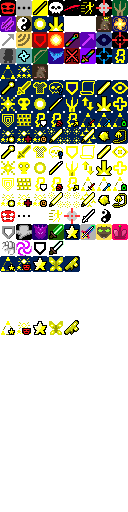
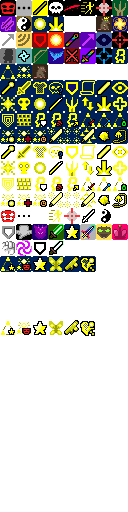
2.3: implemented petitio magica, a spell that gives temporary access to random cleric spell

Changed region(s): [[0.625, 0.625, 0.75, 0.6562], [0.625, 0.5, 0.75, 0.5312]]

diff --git a/core/src/main/java/com/zrp200/rkpd2/actors/hero/spells/PetitioMagica.java b/core/src/main/java/com/zrp200/rkpd2/actors/hero/spells/PetitioMagica.java
@@ -1,0 +1,141 @@
+package com.zrp200.rkpd2.actors.hero.spells;
+
+import com.zrp200.rkpd2.Assets;
+import com.zrp200.rkpd2.Dungeon;
+import com.zrp200.rkpd2.actors.buffs.Buff;
+import com.zrp200.rkpd2.actors.buffs.FlavourBuff;
+import com.zrp200.rkpd2.actors.hero.Hero;
+import com.zrp200.rkpd2.actors.hero.Talent;
+import com.zrp200.rkpd2.effects.Transmuting;
+import com.zrp200.rkpd2.items.artifacts.HolyTome;
+import com.zrp200.rkpd2.messages.Messages;
+import com.zrp200.rkpd2.ui.BuffIndicator;
+import com.zrp200.rkpd2.ui.HeroIcon;
+import com.zrp200.rkpd2.utils.GLog;
+import com.watabou.noosa.audio.Sample;
+import com.watabou.utils.Bundle;
+import com.watabou.utils.Random;
+import com.watabou.utils.Reflection;
+
+import java.util.ArrayList;
+import java.util.Collections;
+import java.util.List;
+
+public class PetitioMagica extends ClericSpell {
+    public static final PetitioMagica INSTANCE = new PetitioMagica();
+
+    @Override
+    public int icon() {
+        return HeroIcon.PETITIO_MAGICA;
+    }
+
+    @Override
+    public void tintIcon(HeroIcon icon) {
+        // todo make icon
+        if (SpellEmpower.isActive()) icon.tint(0, .33f);
+    }
+
+    @Override
+    public Talent talent() {
+        return Talent.PETITIO_MAGICA;
+    }
+
+    @Override
+    public float chargeUse(Hero hero) {
+        return 4;
+    }
+
+    @Override
+    public boolean canCast(Hero hero) {
+        return super.canCast(hero) && hero.shiftedPoints(talent()) > (SpellEmpower.isActive() ? 0 : 1);
+    }
+
+    @Override
+    public void onCast(HolyTome tome, Hero hero) {
+        ArrayList<ClericSpell> currentSpells = new ArrayList<>();
+        for (int i = 1; i <= 3; i++)
+            currentSpells.addAll(ClericSpell.getSpellList(hero, i));
+        ArrayList<ClericSpell> allSpells = ClericSpell.getAllSpells();
+        ClericSpell spell = null;
+        while (spell == null){
+            ClericSpell testSpell = Random.element(allSpells);
+            if (currentSpells.contains(testSpell)) {
+                continue;
+            }
+            if (testSpell.talent() != null && testSpell.talent().maxPoints() > 3)
+                continue;
+            spell = testSpell;
+        }
+        Buff.affect(hero, SpellHolder.class, duration()).spell = spell;
+
+        new Transmuting(new HeroIcon(this), new HeroIcon(spell)).show(hero);
+        Sample.INSTANCE.play(Assets.Sounds.READ);
+        GLog.p(Messages.get(this, "spell", Messages.titleCase(spell.name())));
+
+        hero.spend( 1f );
+        hero.busy();
+        hero.sprite.operate(hero.pos);
+
+        onSpellCast(tome, hero);
+    }
+
+    public static int duration(){
+        int base = 50 * (1 + Dungeon.hero.pointsInTalent(PetitioMagica.INSTANCE.talent()));
+        if (SpellEmpower.isActive()){
+            base *= 1.5f;
+        }
+        return base;
+    }
+
+    @Override
+    protected List<Object> getDescArgs() {
+        return Collections.singletonList(duration());
+    }
+
+    public static boolean containsSpell(Hero cleric, ClericSpell spell){
+        PetitioMagica.SpellHolder spellHolder;
+
+        if ((spellHolder = cleric.buff(PetitioMagica.SpellHolder.class)) != null){
+            return spellHolder.spell.getClass().isInstance(spell);
+        }
+        return false;
+    }
+
+    public static class SpellHolder extends FlavourBuff {
+
+        {
+            type = buffType.POSITIVE;
+        }
+
+        public ClericSpell spell;
+
+        @Override
+        public int icon() {
+            return BuffIndicator.PETITIO_MAGICA;
+        }
+
+        @Override
+        public float iconFadePercent() {
+            return Math.max(0, (duration() - visualcooldown()) / duration());
+        }
+
+        private static final String SPELL = "spell";
+
+        @Override
+        public String desc() {
+            return Messages.get(this, "desc", Messages.titleCase(spell.name()), spell.desc(), dispTurns());
+        }
+
+        @Override
+        public void storeInBundle(Bundle bundle) {
+            super.storeInBundle(bundle);
+            bundle.put(SPELL, spell.getClass().getName());
+        }
+
+        @Override
+        public void restoreFromBundle(Bundle bundle) {
+            super.restoreFromBundle(bundle);
+            spell = (ClericSpell) Reflection.newInstance(Reflection.forName(bundle.getString(SPELL)));
+        }
+    }
+}

diff --git a/core/src/main/java/com/zrp200/rkpd2/actors/hero/Hero.java b/core/src/main/java/com/zrp200/rkpd2/actors/hero/Hero.java
@@ -96,6 +96,7 @@ import com.zrp200.rkpd2.actors.hero.spells.HallowedGround;
 import com.zrp200.rkpd2.actors.hero.spells.HolyWard;
 import com.zrp200.rkpd2.actors.hero.spells.HolyWeapon;
 import com.zrp200.rkpd2.actors.hero.spells.MetaForm;
+import com.zrp200.rkpd2.actors.hero.spells.PetitioMagica;
 import com.zrp200.rkpd2.actors.hero.spells.ShieldOfLight;
 import com.zrp200.rkpd2.actors.hero.spells.Smite;
 import com.zrp200.rkpd2.actors.mobs.AbyssalSpawner;
@@ -584,6 +585,12 @@ public class Hero extends Char {
 				return true;
 			}
 		}
+        if (buff(PetitioMagica.SpellHolder.class) != null){
+            Talent spellTalent = buff(PetitioMagica.SpellHolder.class).spell.talent();
+            if (spellTalent == talent){
+                return true;
+            }
+        }
 		if (Dungeon.isSpecialSeedEnabled(DungeonSeed.SpecialSeed.ALL_TALENTS))
 			return true;
 		for(LinkedHashMap<Talent,Integer> tier : talents) if(tier.containsKey(talent)) return true;
@@ -614,6 +621,12 @@ public class Hero extends Char {
 				return metaTalent.maxPoints;
 			}
 		}
+        if (buff(PetitioMagica.SpellHolder.class) != null){
+            Talent spellTalent = buff(PetitioMagica.SpellHolder.class).spell.talent();
+            if (spellTalent == talent){
+                return spellTalent.maxPoints;
+            }
+        }
 		if (Dungeon.isSpecialSeedEnabled(DungeonSeed.SpecialSeed.ALL_TALENTS))
 			return talent.maxPoints();
 		for (LinkedHashMap<Talent, Integer> tier : talents){

diff --git a/core/src/main/java/com/zrp200/rkpd2/actors/hero/Talent.java b/core/src/main/java/com/zrp200/rkpd2/actors/hero/Talent.java
@@ -265,7 +265,7 @@ public enum Talent {
 	//Paladin T3
 	LAY_ON_HANDS(174, 3, Aspect.DEFENSE), AURA_OF_PROTECTION(175, 3, Aspect.DEFENSE), WALL_OF_LIGHT(176, 3, Aspect.DEFENSE), LIMIT_BREAK(190, 3, Aspect.MULTIFORM), TRIAGE(191, 3, Aspect.UTILITY),
 	//Cenobite T3
-    ARS_RETRACTANDI(imageAt(8, 13), 3), MESSIS_POTENTIAE(imageAt(9, 13), 3, Aspect.MULTIFORM),
+    ARS_RETRACTANDI(imageAt(8, 13), 3), MESSIS_POTENTIAE(imageAt(9, 13), 3, Aspect.MULTIFORM), PETITIO_MAGICA(imageAt(10, 13), 3),
     //Ascended Form T4
 	DIVINE_INTERVENTION(177, 4, Aspect.DEFENSE), JUDGEMENT(178, 4, Aspect.OFFENSE), FLASH(179, 4, Aspect.UTILITY), DIVINE_PROFICIENCY(imageAt(13, 13), 4),
 	//Trinity T4
@@ -1970,7 +1970,7 @@ public enum Talent {
 				Collections.addAll(tierTalents, LAY_ON_HANDS, AURA_OF_PROTECTION, WALL_OF_LIGHT, LIMIT_BREAK, TRIAGE);
 				break;
             case CENOBITE:
-                Collections.addAll(tierTalents, ARS_RETRACTANDI, MESSIS_POTENTIAE);
+                Collections.addAll(tierTalents, ARS_RETRACTANDI, MESSIS_POTENTIAE, PETITIO_MAGICA);
                 break;
             case KING: // this should be *lovely*
 				Collections.addAll(tierTalents, RK_BERSERKER, RK_BATTLEMAGE, RK_ASSASSIN, RK_SNIPER, RK_GLADIATOR, RK_WARLOCK, RK_FREERUNNER, RK_WARDEN); break;

diff --git a/core/src/main/java/com/zrp200/rkpd2/actors/hero/spells/ClericSpell.java b/core/src/main/java/com/zrp200/rkpd2/actors/hero/spells/ClericSpell.java
@@ -223,6 +223,12 @@ public abstract class ClericSpell {
 					HolyIntuition.INSTANCE, ShieldOfLight.INSTANCE, Metaexpression.INSTANCE
 			}) if (spell.isVisible(cleric)) spells.add(spell);
 
+            PetitioMagica.SpellHolder spellHolder;
+
+            if ((spellHolder = cleric.buff(PetitioMagica.SpellHolder.class)) != null){
+                spells.add(spellHolder.spell);
+            }
+
 		} else if (tier == 2) {
 
 			for (ClericSpell spell : new ClericSpell[]{
@@ -249,7 +255,8 @@ public abstract class ClericSpell {
 				WallOfLight.INSTANCE,
 				SpellEmpower.LimitBreak.INSTANCE,
                 ArsRetractandi.INSTANCE,
-                MessisPotentiae.INSTANCE
+                MessisPotentiae.INSTANCE,
+                PetitioMagica.INSTANCE,
 			}){
 				if (spell.isVisible(cleric)) spells.add(spell);
 			}

diff --git a/core/src/main/java/com/zrp200/rkpd2/items/artifacts/HolyTome.java b/core/src/main/java/com/zrp200/rkpd2/items/artifacts/HolyTome.java
@@ -187,7 +187,7 @@ public class HolyTome extends Artifact {
 		Talent.RECALL_INSCRIPTION, Talent.SUNRAY, Talent.DIVINE_SENSE, Talent.BLESS, Talent.RADIANT_GRAPPLER,
 		Talent.CLEANSE, Talent.HOLY_LANCE, Talent.HALLOWED_GROUND, Talent.MNEMONIC_PRAYER, Talent.DIVINE_ADVENT,
 			Talent.LAY_ON_HANDS, Talent.AURA_OF_PROTECTION, Talent.WALL_OF_LIGHT, Talent.LIMIT_BREAK,
-        Talent.ARS_RETRACTANDI, Talent.MESSIS_POTENTIAE,
+        Talent.ARS_RETRACTANDI, Talent.MESSIS_POTENTIAE, Talent.PETITIO_MAGICA,
 		Talent.DIVINE_INTERVENTION, Talent.JUDGEMENT, Talent.FLASH,
 			Talent.BODY_FORM, Talent.SPIRIT_FORM, Talent.MIND_FORM, Talent.META_FORM,
 		Talent.BEAMING_RAY, Talent.LIFE_LINK, Talent.STASIS, Talent.ENRAGE

diff --git a/core/src/main/java/com/zrp200/rkpd2/ui/HeroIcon.java b/core/src/main/java/com/zrp200/rkpd2/ui/HeroIcon.java
@@ -113,7 +113,8 @@ public class HeroIcon extends Image {
 			ENRAGE          = imageAt(1, 16),
             MUTARE_ARTEM    = imageAt(2, 16),
             ARS_RETRACTANDI = imageAt(3, 16),
-            MESSIS_POTENTIAE = imageAt(4, 16);
+            MESSIS_POTENTIAE = imageAt(4, 16),
+            PETITIO_MAGICA   = imageAt(5, 16);
 
 	//all cleric spells have a separate icon with no background for the action indicator
 	public static final int SPELL_ACTION_OFFSET      = 32;

diff --git a/core/src/main/java/com/zrp200/rkpd2/actors/hero/spells/MutareArtem.java b/core/src/main/java/com/zrp200/rkpd2/actors/hero/spells/MutareArtem.java
@@ -45,7 +45,7 @@ public class MutareArtem extends ClericSpell {
     @Override
     public boolean canCast(Hero hero) {
         return super.canCast(hero) &&
-                (hero.subClass.is(HeroSubClass.CENOBITE) || Dungeon.isSpecialSeedEnabled(DungeonSeed.SpecialSeed.CLERIC));
+                (hero.subClass.is(HeroSubClass.CENOBITE) || Dungeon.isSpecialSeedEnabled(DungeonSeed.SpecialSeed.CLERIC) || PetitioMagica.containsSpell(hero, this));
     }
 
     @Override

diff --git a/core/src/main/java/com/zrp200/rkpd2/actors/hero/spells/Smite.java b/core/src/main/java/com/zrp200/rkpd2/actors/hero/spells/Smite.java
@@ -112,7 +112,7 @@ public class Smite extends TargetedClericSpell {
 	@Override
 	public boolean canCast(Hero hero) {
 		return super.canCast(hero) &&
-				(hero.subClass.is(HeroSubClass.PALADIN) || Dungeon.isSpecialSeedEnabled(DungeonSeed.SpecialSeed.CLERIC));
+				(hero.subClass.is(HeroSubClass.PALADIN) || Dungeon.isSpecialSeedEnabled(DungeonSeed.SpecialSeed.CLERIC) || PetitioMagica.containsSpell(hero, this));
 	}
 
 	@Override

diff --git a/core/src/main/java/com/zrp200/rkpd2/actors/hero/spells/Radiance.java b/core/src/main/java/com/zrp200/rkpd2/actors/hero/spells/Radiance.java
@@ -69,7 +69,7 @@ public class Radiance extends ClericSpell {
 	@Override
 	public boolean canCast(Hero hero) {
 		return super.canCast(hero) &&
-				(hero.subClass.is(HeroSubClass.PRIEST) || Dungeon.isSpecialSeedEnabled(DungeonSeed.SpecialSeed.CLERIC));
+				(hero.subClass.is(HeroSubClass.PRIEST) || Dungeon.isSpecialSeedEnabled(DungeonSeed.SpecialSeed.CLERIC) || PetitioMagica.containsSpell(hero, this));
 	}
 
 	@Override

diff --git a/core/src/main/java/com/zrp200/rkpd2/ui/BuffIndicator.java b/core/src/main/java/com/zrp200/rkpd2/ui/BuffIndicator.java
@@ -148,6 +148,7 @@ public class BuffIndicator extends Component {
 	public static final int TRINKETHOLD = 7_07;
 	public static final int HOLYFLAMES  = 8_07;
     public static final int MESSIS_POTENTIAE = 9_07;
+    public static final int PETITIO_MAGICA   = 10_07;
 
     private static BuffIndicator heroInstance;
 	private static BuffIndicator bossInstance;
